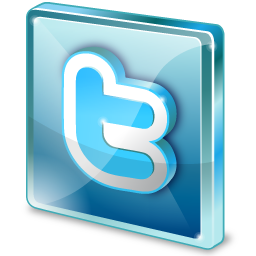
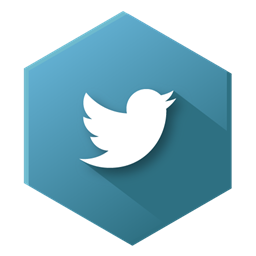
Add files via upload

diff --git a/index.html b/index.html
@@ -16,6 +16,8 @@
       <nav id="menu">
         <img src="img/logo.png" alt="Logotipo" />
         <ul>
+          <li><a href="#Aquemsomos">Quem Somos</a></li>
+          <li><a href="#Acontato">Contato</a></li>
           <li><a href="login.html">Login</a></li>
           <li><a href="cadastro.html">Cadastro</a></li>
         </ul>
@@ -35,7 +37,7 @@
       <h1>QUEM SOMOS</h1>
       <p class="titulo">GABRIEL OCZUST & NICOLLI PETRY- TI</p>
 
-        <figure class="galeria">
+        <figure class="galeria" id="Egaleria">
           <a href="https://www.facebook.com/gaboczust" target="_blank"><img src="img/gabriel.jpg" alt="Imagem Gabriel" /></a>
         </figure>
         <figure class="galeria">
@@ -57,7 +59,7 @@
       <div id="formcontato">
         <h1>ENTRE EM CONTATO</h1>
         <form method="post" id="fContato" action="mailto:gabriel.oczust@gmail.com">
-          <p class="pContato"><input type="text" name="tNome" id="cNome" size="20" maxlength="30" placeholder="Nome Completo" /></p>
+          <p class="pContato"><input type="text" name="tNome" id="cNome" size="20" maxlength="64" placeholder="Nome Completo" /></p>
           <p><input type="email" name="tMail" id="cMail" size="30" maxlength="64" placeholder="E-mail"/></p>
           <p class="pMsg"><textarea id="cMsg" name="tMsg" cols="75" rows="8" placeholder="Mensagem"></textarea></p>
           <input type="submit" name="tEnviar" class="enviar" value="Enviar"></input>
@@ -66,21 +68,14 @@
     </section>
 
     <section id="trabelheconosco">
-
+      <img src="img/trabalheconosco.jpg" alt="Trabalhe Conosco">
     </section>
 
-    <footer class="rodape" id="rodape1">
-      <ul id="lista_informaçoes">
-        <a href="#Aquemsomos"><li>Quem Somos</li></a>
-        <a href="#Acontato"><li class="liespaço">Contato</li></a>
-        <a href="#Atrabalheconosco"><li class="liespaço">Trabalhe Conosco</li></a>
-      </ul>
-    </footer>
-    <footer class="rodape" id="rodape2">
+    <footer class="rodape">
       <ul id="lista_redesocias">
-        <li>Facebook</li>
-        <li>Twitter</li>
-        <li>Instagram</li>
+        <a href="https://www.facebook.com" target="_blank"><img src="img/facebook.png" alt="Icone Facebook"/><li>Facebook</li></a>
+        <a href="https://www.twitter.com" target="_blank"><img src="img/twitter.png" alt="Icone Twitter"/><li>Twitter</li></a>
+        <a href="https://www.instagram.com" target="_blank"><img src="img/instagram.png" alt="Icone Instagram"/><li>Instagram</li></a>
       </ul>
     </footer>
   </div>

diff --git a/css/estilo.css b/css/estilo.css
@@ -11,7 +11,7 @@ a{
 div#interface{
   background-color: #48D1CC;
   width: 100%;
-  height: 1730px;
+  height: 2410px;
 }
 
 header#cabecalho{
@@ -52,7 +52,7 @@ nav#menu a {
 }
 
 nav#menu a:hover {
-  color: #691065;
+  color: #008B8B;
 }
 
 section#corpo{
@@ -102,12 +102,12 @@ section#corpo input:hover{
 }
 
 section#corpo a#botaop{
-  margin-left: 37%;
+  margin-left: 40%;
   padding: 10px;
 }
 
 section#quemsomos{
-  background-color: #f2f2f2;
+  background-color: #FFFAFA;
   width: 100%;
   height: 490px;
   float: left;
@@ -134,10 +134,12 @@ section#quemsomos figure.galeria{
   width: 200px;
   height: 200px;
   overflow: hidden;
-  position: relative;
-  left: 30%;
-  margin: 20px 100px 0px 25px;
+  margin: 20px 30px 0px 25px;
   display: inline-block;
+}
+
+section#quemsomos figure#Egaleria{
+  margin-left: 36%;
 }
 
 section#quemsomos img{
@@ -157,13 +159,13 @@ section#contato{
   width: 100%;
   height: 500px;
   float: left;
+  background-color: #008B8B;
 }
 
 section#contato div#infocontato{
   float: left;
   height: 100%;
   width: 30%;
-  background-color: #8B8970;
   font-family: 'Titulos';
 }
 
@@ -190,7 +192,6 @@ section#contato div#formcontato{
   float: left;
   height: 100%;
   width: 70%;
-  background-color: #8B8970;
 }
 
 section#contato div#formcontato h1{
@@ -258,10 +259,17 @@ input.enviar {
 	border: 0px solid #f2f5f5;
 }
 
-
-
 section#trabelheconosco{
+  width: 100%;
+  height: 700px;
+  border-bottom: 10px solid white;
+  border-top: 10px solid white;
+  float: left;
+}
 
+section#trabelheconosco img{
+  width: 100%;
+  height: 100%;
 }
 
 footer.rodape{
@@ -269,22 +277,14 @@ footer.rodape{
   width: 100%;
   height: 40px;
   font-size: 15pt;
-
+  background-color: rgb(230,230,230);
 }
 
-footer#rodape1{
-    background-color: white;
-}
-
-footer#rodape2{
-    background-color: rgb(230,230,230);
-}
-
-footer ul{
+footer.rodape ul{
   padding-top: .5%;
   float: left;
   position:relative;
-  left: 36%;
+  left: 40%;
 }
 
 footer.rodape li{
@@ -296,9 +296,13 @@ footer.rodape li{
 }
 
 footer.rodape li:hover{
-  color: #691065;
+  color: #008B8B;
 }
 
-footer#rodape2 li{
-  padding-left: 20px;
+footer.rodape img{
+  height: 30px;
+  width: 30px;
+  position: absolute;
+  top: 19%;
+  margin-left: -8%;
 }
